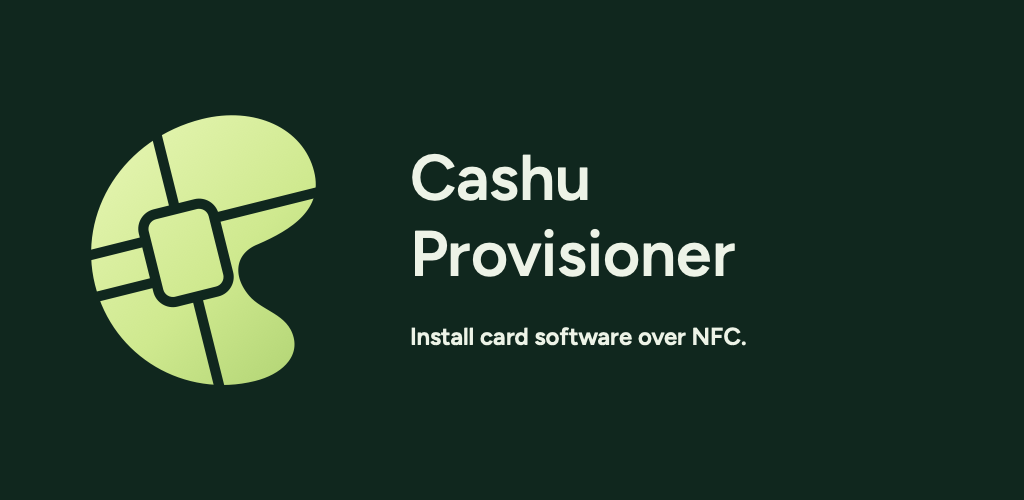
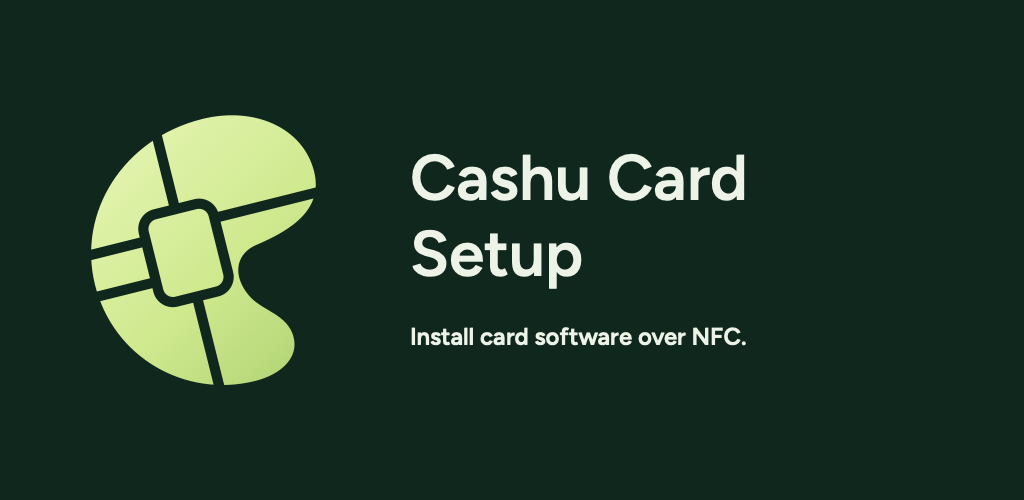
Setup build 16: the build number, and what the build holds (ENG-870) (#268)
Build 15 to 16 in package.json, Gradle, both Xcode configurations and
docs/COMPONENT-RELEASES.md (version stays 1.0.0). The batch notice opens
"This batch uses another tag address". The Play and cardart feature
graphics say Cashu Card Setup, not Cashu Provisioner.

Claude-Session: https://claude.ai/code/session_01Gn2VCc6zbwt75RxfPw2sC4

Changed region(s): [[0.4062, 0.45, 0.7188, 0.57], [0.5938, 0.3, 0.75, 0.42]]

diff --git a/brand/generate.swift b/brand/generate.swift
@@ -364,7 +364,7 @@ banner.setFillColor(cgColor(hex("ground"))); banner.fill(CGRect(x: 0, y: 0, widt
 drawMark(banner, in: CGRect(x: 60, y: 100, width: 300, height: 300), fill: .chip, small: false)
 banner.saveGState()
 banner.translateBy(x: 0, y: 500); banner.scaleBy(x: 1, y: -1)   // text draws with y up
-for (text, size, y) in [("Cashu", CGFloat(64), CGFloat(300)), ("Provisioner", 64, 224), ("Install card software over NFC.", 24, 155)] {
+for (text, size, y) in [("Cashu Card", CGFloat(64), CGFloat(300)), ("Setup", 64, 224), ("Install card software over NFC.", 24, 155)] {
     let attributes = [kCTFontAttributeName as String: figtreeFont(size, weight: 600),
                       kCTForegroundColorAttributeName as String: cgColor(hex("ink"))] as CFDictionary
     banner.textPosition = CGPoint(x: 410, y: y)

diff --git a/apps/provisioner/src/strings.ts b/apps/provisioner/src/strings.ts
@@ -138,4 +138,4 @@ export const PHYSICAL_READ_BANNER = 'PHYSICAL CARD — read-only';
 
 /** What the install step says when the saved maker's tag address is not the open batch's (D239). */
 export const batchMakerDiffers = (batch: {name: string; tagAddress: string}) =>
-  `This batch was opened with another tag address: ${batch.tagAddress} (${batch.name}). No card is installed. Close this batch, or set the card maker back to that address in Settings.`;
+  `This batch uses another tag address: ${batch.tagAddress} (${batch.name}). No card is installed. Close this batch, or set the card maker back to that address in Settings.`;

diff --git a/docs/COMPONENT-RELEASES.md b/docs/COMPONENT-RELEASES.md
@@ -14,7 +14,7 @@ authorities. Do not generate replacement signing keys to make CI pass.
 | Firmware    | `applet/pom.xml`: 3.1.0; tracked CAP `cashu-javacard-3.1.0.cap`, APDU version 3.1 | `firmware-v3.1.0`            |
 | cardkit     | `tools/cardkit/package.json`: 0.4.0                              | `cardkit-v0.4.0`             |
 | Ops-service | `ops/package.json`: 0.2.0                                        | `ops-v0.2.0`                 |
-| Provisioner | `apps/provisioner/package.json`: 1.0.0, build 15                  | `provisioner-v1.0.0-build.15` |
+| Provisioner | `apps/provisioner/package.json`: 1.0.0, build 16                  | `provisioner-v1.0.0-build.16` |
 
 These examples identify source versions. Existing store build numbers remain
 reserved; use a new build number for a new upload. The next mobile release needs
@@ -22,6 +22,12 @@ a new monotonically increasing build in package.json, Android Gradle and iOS
 Info.plist. Historical `v2.1.0` and `provisioner-v1.0.0-beta.1` releases remain
 valid historical records; do not move or retag them. Corrected firmware Maven
 metadata does not alter the CAP.
+
+Provisioner build 16 (the app is named Cashu Card Setup; the version stays 1.0.0) holds, since build 15: the released 3.1 card
+file (`firmware-v3.1.0`, load file sha256 `b2afa9a8…`) on the app's list of approved load files (#266); the app reads 2.1, 2.2,
+3.0 and 3.1 cards; the new name (#265); the card maker's name and tag address set in the app, with no maker built in (D239,
+#267); and the "Other mint…" cell (ENG-857, #251). This app's install has not yet run on a chip; the operator's own card
+install with the built app comes before the tag `provisioner-v1.0.0-build.16` is pushed (see `apps/provisioner/README.md`).
 
 Firmware 3.1.0 is the first released card version of the 3.x line: 3.0 is never released, and no `firmware-v3.0.0` tag
 will be cut (D237). 3.0 is the 3.0 wire after the merge of 2026-11-19: `SELECT` and `GET_INFO`
